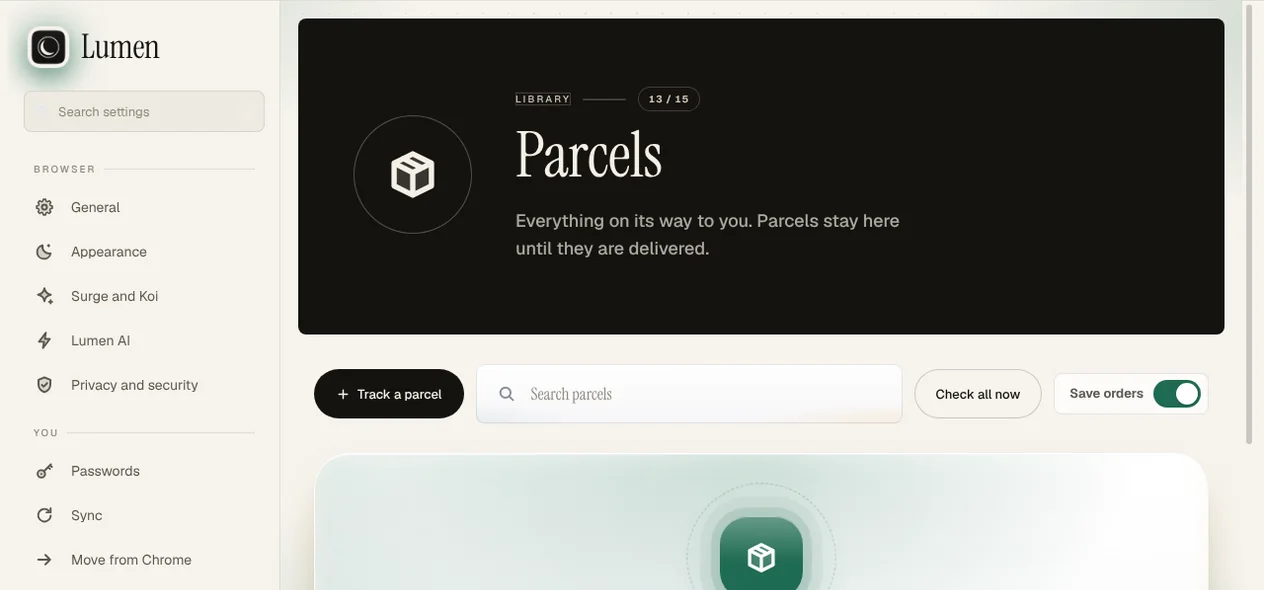
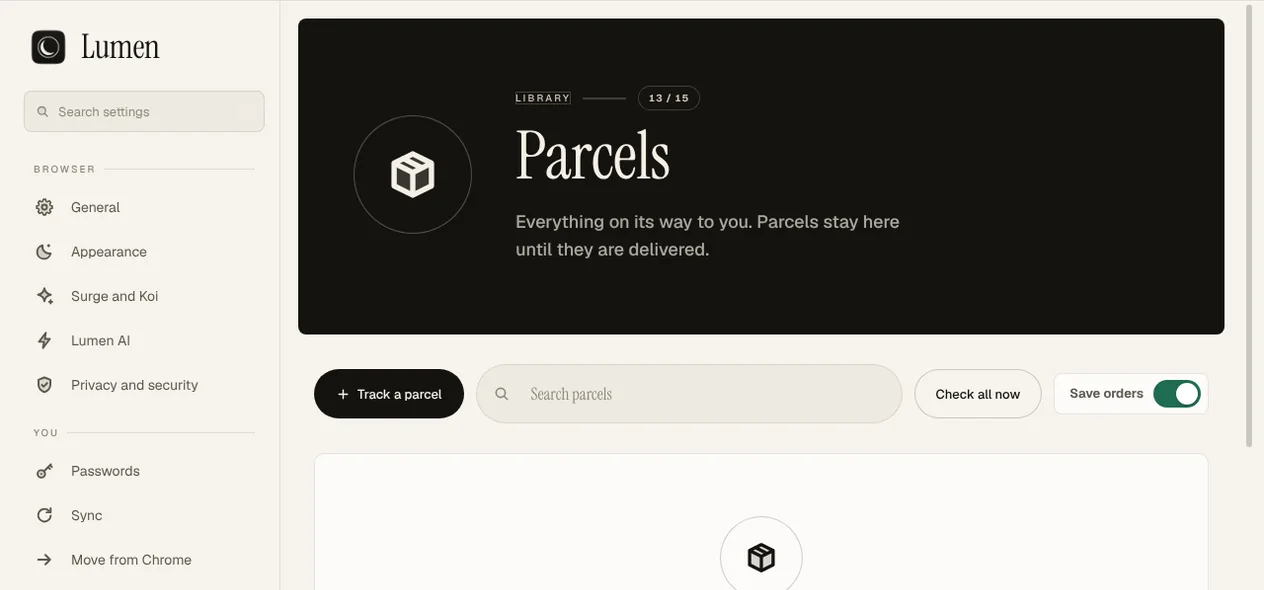
Site: Lumen 4.6
Claude-Session: https://claude.ai/code/session_016io9pVZ6dJ8VMHbPwqrPds

diff --git a/index.html b/index.html
@@ -346,7 +346,7 @@ footer nav a:hover{text-decoration:underline;text-underline-offset:4px;text-deco
 <body>
 <header class="nav">
   <div class="wrap bar">
-    <a class="brand" href="#top"><img src="icon.webp" alt="" width="30" height="30">Lumen <small>4.5.1</small></a>
+    <a class="brand" href="#top"><img src="icon.webp" alt="" width="30" height="30">Lumen <small>4.6</small></a>
     <nav class="links" aria-label="Sections">
       <a class="h fl" href="#new">What's new</a>
       <a class="h fl" href="#speed">Speed</a>
@@ -409,7 +409,7 @@ footer nav a:hover{text-decoration:underline;text-underline-offset:4px;text-deco
         <span class="kicker">What's new in 4.4</span>
         <h2>Watch Claude <em>work.</em></h2>
       </div>
-      <p class="longread">Lumen 4.4 shows you every move Claude makes in a tab: its own glowing cursor, a label for what it is doing and a soft edge of light until it is done. 4.4.1 starts you off with one-tap tasks that fit the page, and 4.4.2 runs any finished task again with one tap. 4.4.3 makes passkeys tell you exactly what is going on, with your password or Safari one tap away. 4.5.1 makes every hover readable and matches the New Tab banner to your background. 4.5 is Maison: a calm monochrome look with warm paper and deep ink, big serif titles, a new logo, buttons that fill with colour that flows in under your pointer, and solid menus with no blur or lag. 4.4.25 fixed the tab preview that could leave ghost copies behind after you hover your tabs, and the What's new intro closes cleanly. 4.4.23 fixed passkeys for real: Sign in with a passkey now works inside frames and sign-in popups, more sites can save one, and a passkey or password Lumen cannot open is never lost. And from 4.4.4, every update plays its own short film again. 4.4.5 flips between Ask and Do it for me with Option Command A, 4.4.6 saves your Shopify orders to Parcels with the right carrier, 4.4.7 makes every page title fit its banner, 4.4.8 tracks a parcel straight from any carrier link, 4.4.9 takes you to the parcel when there is news, 4.4.10 makes that parcel glow all the way round, 4.4.11 copies clean links, with redirects unwrapped and trackers removed, 4.4.12 copies the page with its title as a clickable link, 4.4.13 makes the update card title fit every version in full, 4.4.14 undoes a bulk tab close in one tap, 4.4.15 brings back a window you closed by mistake, 4.4.16 lists everything you closed in History, Recently Closed, 4.4.17 keeps that list across a restart, 4.4.19 lets the command bar search it, 4.4.20 copies all your tab links clean, as titled links, 4.4.21 adds clipboard history on Option V, and 4.4.22 makes Downloads over, with live speed and time left, kind filters and search, and opens History twice as fast. Claude in Lumen arrived in 4.3, and since 4.2 nothing lags.</p>
+      <p class="longread">Lumen 4.4 shows you every move Claude makes in a tab: its own glowing cursor, a label for what it is doing and a soft edge of light until it is done. 4.4.1 starts you off with one-tap tasks that fit the page, and 4.4.2 runs any finished task again with one tap. 4.4.3 makes passkeys tell you exactly what is going on, with your password or Safari one tap away. 4.6 finishes Lumen in paper and ink, with readable Settings, calm wallpapers and an update card that walks you through each step. Take your settings to another computer with export and import, search the shortcut sheet, and pin, mute or reload every tab right from Cmd K. 4.5.1 made every hover readable and matches the New Tab banner to your background. 4.5 is Maison: a calm monochrome look with warm paper and deep ink, big serif titles, a new logo, buttons that fill with colour that flows in under your pointer, and solid menus with no blur or lag. 4.4.25 fixed the tab preview that could leave ghost copies behind after you hover your tabs, and the What's new intro closes cleanly. 4.4.23 fixed passkeys for real: Sign in with a passkey now works inside frames and sign-in popups, more sites can save one, and a passkey or password Lumen cannot open is never lost. And from 4.4.4, every update plays its own short film again. 4.4.5 flips between Ask and Do it for me with Option Command A, 4.4.6 saves your Shopify orders to Parcels with the right carrier, 4.4.7 makes every page title fit its banner, 4.4.8 tracks a parcel straight from any carrier link, 4.4.9 takes you to the parcel when there is news, 4.4.10 makes that parcel glow all the way round, 4.4.11 copies clean links, with redirects unwrapped and trackers removed, 4.4.12 copies the page with its title as a clickable link, 4.4.13 makes the update card title fit every version in full, 4.4.14 undoes a bulk tab close in one tap, 4.4.15 brings back a window you closed by mistake, 4.4.16 lists everything you closed in History, Recently Closed, 4.4.17 keeps that list across a restart, 4.4.19 lets the command bar search it, 4.4.20 copies all your tab links clean, as titled links, 4.4.21 adds clipboard history on Option V, and 4.4.22 makes Downloads over, with live speed and time left, kind filters and search, and opens History twice as fast. Claude in Lumen arrived in 4.3, and since 4.2 nothing lags.</p>
     </div>
     <div class="plates">
       <figure class="plate"><img src="shots/parcels.webp" alt="The Parcels page with three parcels on the way: two orders saved from online shops, each with a Shop tag, the store name and its order number, and a progress line from Placed to Delivered" width="1264" height="590" loading="lazy" decoding="async"><figcaption>New in 4.4.6: Shop orders in Parcels</figcaption></figure>
@@ -1199,7 +1199,7 @@ footer nav a:hover{text-decoration:underline;text-underline-offset:4px;text-deco
   <div class="wrap">
     <div class="foot">
       <div>
-        <a class="brand" href="#top"><img src="icon.webp" alt="" width="34" height="34" loading="lazy" decoding="async">Lumen 4.5.1</a>
+        <a class="brand" href="#top"><img src="icon.webp" alt="" width="34" height="34" loading="lazy" decoding="async">Lumen 4.6</a>
         <p class="say">A browser for Mac and Windows, and a small family of apps around it.</p>
       </div>
       <nav aria-label="Footer">
